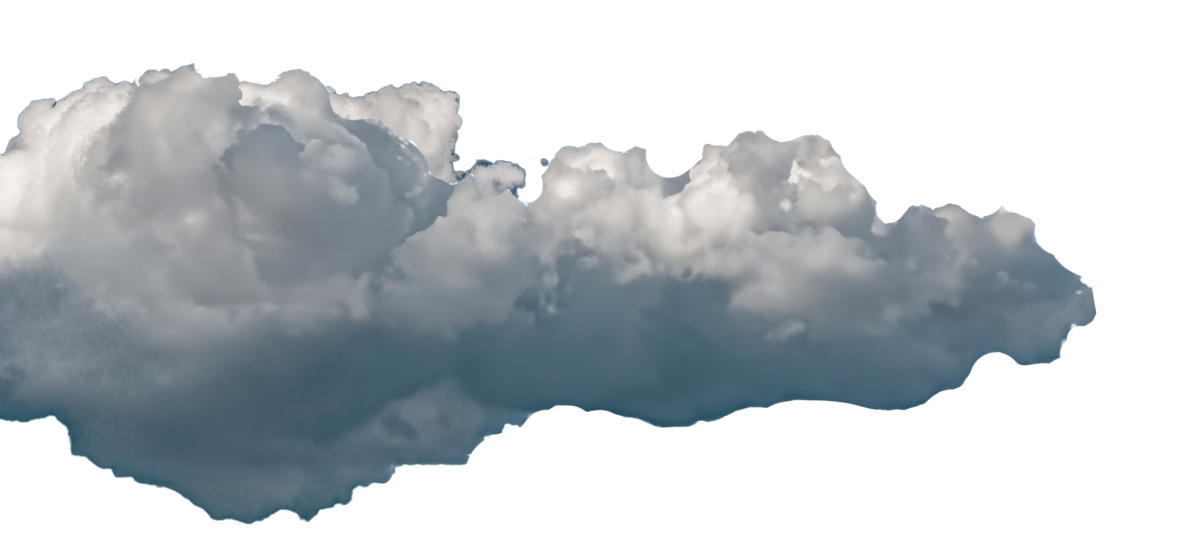
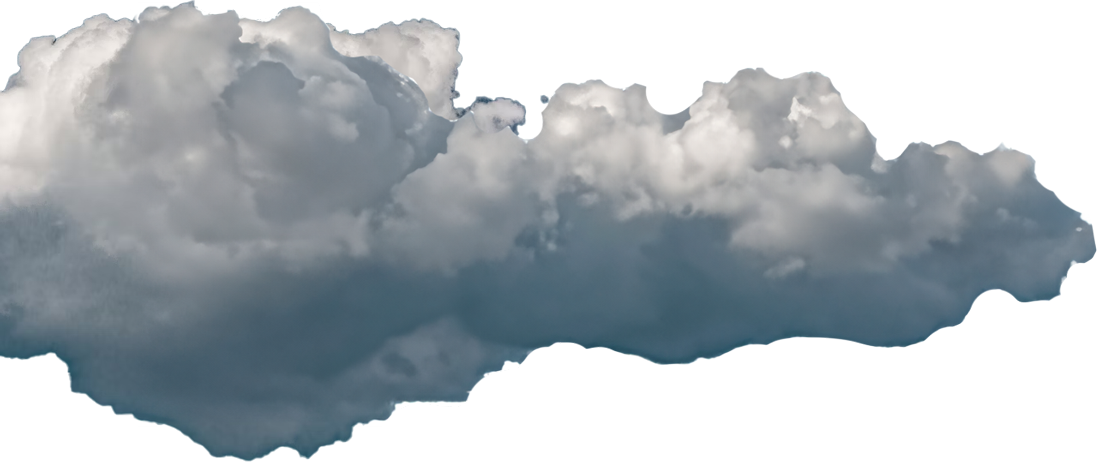
set up parallax stlyling and added gifs

diff --git a/art128/hawaiianmonkseal-v3/css/style.css b/art128/hawaiianmonkseal-v3/css/style.css
@@ -725,6 +725,7 @@ form input[type="submit"] {
     }
     .quickfacts-top-image {
       transform-origin: 60% 80%;
+      transform: scale(1.3);
     }
     .quickfacts-trivia {
       padding-top: 1.5em;
@@ -753,27 +754,62 @@ form input[type="submit"] {
 
 /* PARALLAX STYLING */
 
-.bg-clouds {
+.bg-wrapper {
+  min-height: 400px;
+  position: relative;
+  aspect-ratio: 6 / 4;
+} 
+
+.bg-clouds-left {
+  position:absolute;
+  top: 0;
+  left: 0;
+  z-index: 10;
+  width: 70%;
   background-size: 100%;
   /* background-color: pink; */
-  aspect-ratio: 11/5;
-  background-image: url(../img/clouds.png);
-  
+  aspect-ratio: 11 / 4.7;
+  background-image: url(../img/cloudsnew.png);
+  background-repeat: no-repeat;
+}
+.bg-clouds-right {
+  position:absolute;
+  top: 0;
+  right: 0;
+  z-index: -10;
+  width: 40%;
+  background-size: 100%;
+  /* background-color: pink; */
+  aspect-ratio: 11 / 5.7;
+  background-image: url(../img/cloudsnewright.png);
+  background-repeat: no-repeat;
 }
 
 .bg-mountains {
+  position:absolute;
+  bottom: -30%;
+  left: 0;
+  z-index: -1;
+  width: 100%;
   background-size: 100%;
   /* background-color: yellow; */
-  aspect-ratio: 9 / 5;
-  background-image: url(../img/mountains.png);
+  aspect-ratio: 9 / 6;
+  background-image: url(../img/mountainsnew.png);
+  background-repeat: no-repeat;
 }
 
 .bg-mountains-to-ocean {
-  padding-top: 10%;
-  background-color: rgba(5, 5, 86, 0.5);
+  padding-top: 30%;
+  /* background-color: rgba(5, 5, 86, 0.5); */
   background-size: cover;
   background-repeat: no-repeat;
-  background-image: url(../img/oceanbackground.png);
+  background-image: url(../img/oceanbackgroundnew.png);
+}
+
+@media (max-width: 767px) {
+  .bg-mountains-to-ocean {
+    padding-top: 80%;
+  }
 }
 
 /* SUPPORT CARDS */
@@ -815,4 +851,3 @@ form input[type="submit"] {
   transform: translate(-50%, -50%);
   padding-bottom: 0;
 }
-

diff --git a/art128/hawaiianmonkseal-v3/index.html b/art128/hawaiianmonkseal-v3/index.html
@@ -148,12 +148,10 @@
       </div>
     </section>
 
-    <div class="bg-clouds">
-
-
-    </div>
-    <div class="bg-mountains">
-
+    <div class="bg-wrapper">
+      <div class="bg-clouds-left"></div>
+      <div class="bg-clouds-right"></div>
+      <div class="bg-mountains"></div>
     </div>
 
     <div class="bg-mountains-to-ocean">
@@ -169,13 +167,13 @@
                 Maka measures about 7 feet (2.2 m) long and weighs between 350 and 390 pounds (159-177 kg).</p>
             </div>
             <div class="column one-half">
-              <img class="resident-seal-one" src="img/4272579_orig.png" alt="A swimming monk seal.">
+              <img class="resident-seal-one" src="img/4272579_orig.gif" alt="A swimming monk seal.">
             </div>
           </div>
           <div class="container">
             <div class="row swapped">
               <div class="column one-half">
-                <img class="resident-seal-two" src="img/GettyImages-1176800653.png" alt="A swimming monk seal.">
+                <img class="resident-seal-two" src="img/GettyImages-1176800653.gif" alt="A swimming monk seal.">
               </div>
               <div class="column one-half">
                 <h4>ho&#699;ailona</h4>
